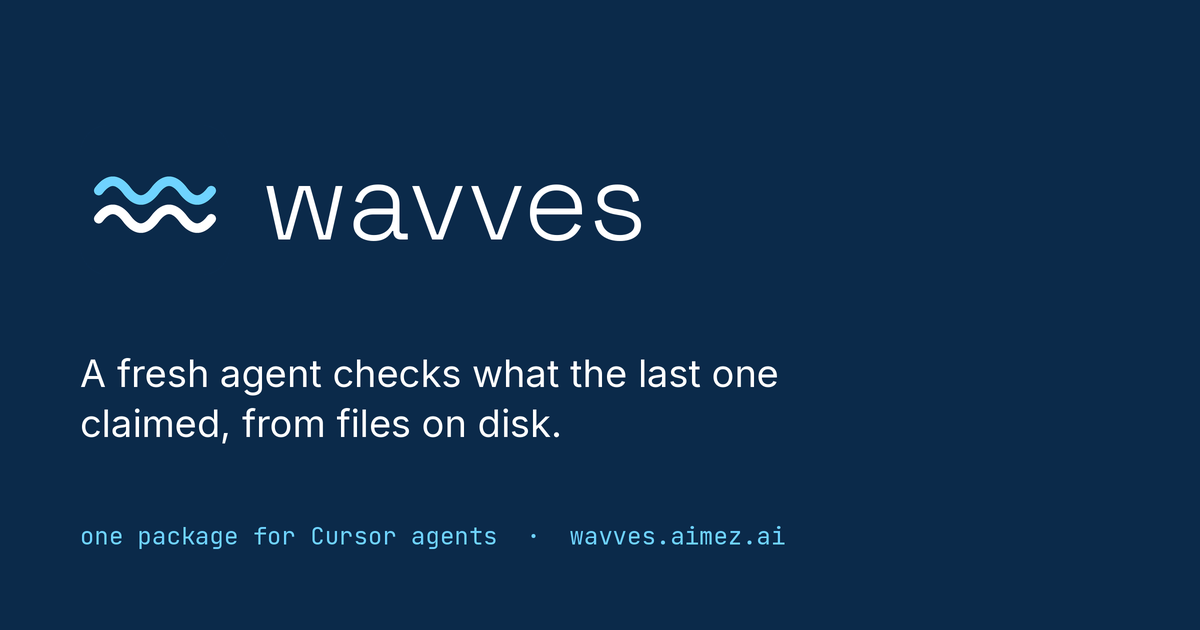
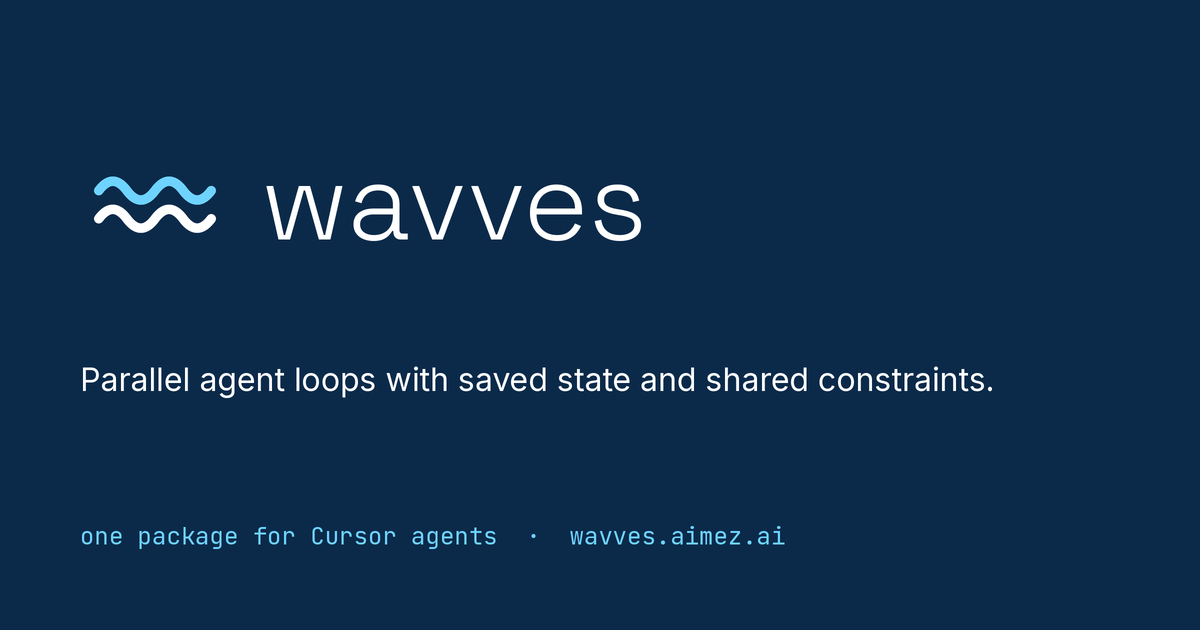
site: lock tagline to Parallel agent loops with saved state and shared constraints

Changed region(s): [[0.0617, 0.573, 0.8325, 0.6937]]

diff --git a/index.html b/index.html
@@ -4,7 +4,7 @@
   <meta charset="UTF-8">
   <meta name="viewport" content="width=device-width, initial-scale=1.0">
   <title>wavves | one package for Cursor agents</title>
-  <meta name="description" content="A fresh agent checks what the last one claimed, from files on disk. In the wavves package you get the wavves skills for agent work that runs across many threads.">
+  <meta name="description" content="Parallel agent loops with saved state and shared constraints. In the wavves package you get the wavves skills for agent work that runs across many threads.">
   <link rel="canonical" href="https://wavves.aimez.ai/">
   <meta name="theme-color" content="#1a2f3d">
   <link rel="icon" href="/assets/favicon.ico" sizes="any">
@@ -16,14 +16,14 @@
   <meta property="og:type" content="website">
   <meta property="og:site_name" content="wavves">
   <meta property="og:title" content="wavves | one package for Cursor agents">
-  <meta property="og:description" content="A fresh agent checks what the last one claimed, from files on disk. In the wavves package you get the wavves skills for agent work that runs across many threads.">
+  <meta property="og:description" content="Parallel agent loops with saved state and shared constraints. In the wavves package you get the wavves skills for agent work that runs across many threads.">
   <meta property="og:image" content="https://wavves.aimez.ai/assets/og-wavves.png">
   <meta property="og:image:width" content="1200">
   <meta property="og:image:height" content="630">
   <meta property="og:url" content="https://wavves.aimez.ai/">
   <meta name="twitter:card" content="summary_large_image">
   <meta name="twitter:title" content="wavves | one package for Cursor agents">
-  <meta name="twitter:description" content="A fresh agent checks what the last one claimed, from files on disk. In the wavves package you get the wavves skills for agent work that runs across many threads.">
+  <meta name="twitter:description" content="Parallel agent loops with saved state and shared constraints. In the wavves package you get the wavves skills for agent work that runs across many threads.">
   <meta name="twitter:image" content="https://wavves.aimez.ai/assets/og-wavves.png">
   <style>
     @import url("https://fonts.googleapis.com/css2?family=Cormorant+Garamond:wght@500;600;700&family=IBM+Plex+Mono:wght@400;500;600&family=IBM+Plex+Sans:wght@400;500;600;700&display=swap");
@@ -80,7 +80,7 @@
     <section class="hero">
       <div class="hero-top"><h1>wavves</h1><img class="mark" src="/assets/brand/wavves-logo.svg" alt="wavves logo" width="56" height="56"></div>
       <p class="kicker">one package for Cursor agents · on Agensi</p>
-      <p class="hero-copy">A fresh agent checks what the last one claimed, from files on disk. In the wavves package you get the wavves skills for agent work that runs across many threads. With the workflow skills you run waves of agents in lanes under one moderator thread.</p>
+      <p class="hero-copy">Parallel agent loops with saved state and shared constraints. In the wavves package you get the wavves skills for agent work that runs across many threads. With the workflow skills you run waves of agents in lanes under one moderator thread.</p>
       <div class="links">
         <a href="https://www.agensi.io/skills/wavves">wavves on Agensi</a>
         <a href="#package">Package</a>
